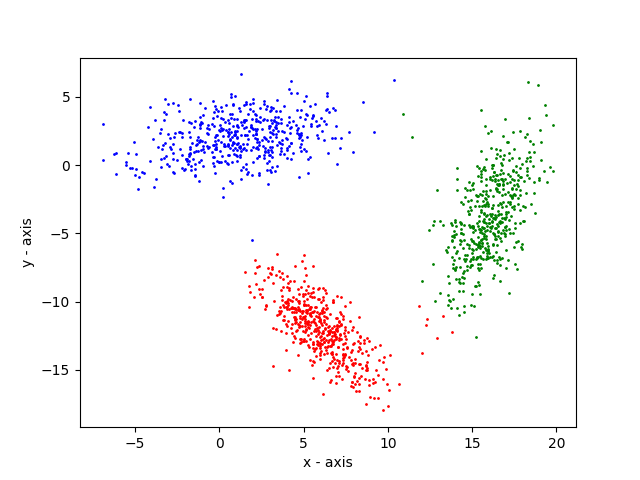
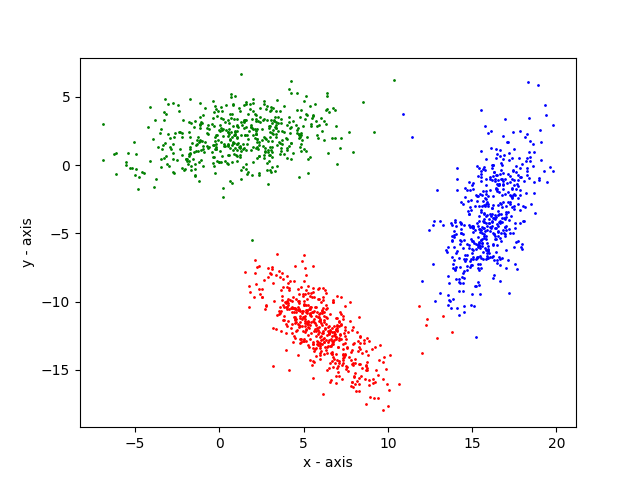
k is taken as input

Changed region(s): [[0.25, 0.1875, 0.5312, 0.375], [0.6875, 0.3125, 0.8438, 0.6562], [0.1875, 0.3438, 0.2188, 0.375]]

diff --git a/part a/LS/kmean.py b/part a/LS/kmean.py
@@ -1,8 +1,9 @@
 import math
 import random
+from random import randint
 import numpy as np
 from matplotlib import pyplot as plt
-K=3
+# K=3
 allowed_error=0.005
 
 def read_dataset(filename):
@@ -13,7 +14,7 @@ def read_dataset(filename):
         data_vectors.append([float(x) for x in line.split()])
     return data_vectors
 
-def myrandom(data_vector_set):
+def myrandom(data_vector_set,K):
     # min_element_wise=list(map(min, zip(*data_vector_set)))
     # max_element_wise=list(map(max, zip(*data_vector_set)))
     k_random_element=[]
@@ -22,12 +23,9 @@ def myrandom(data_vector_set):
     return k_random_element
 
 def compute_distance(data_vector,mean_vector):
-    # print(data_vector)
-    # print('*************************')
-    # print(mean_vector)
     return math.sqrt(pow((data_vector[0]-mean_vector[0]),2)+(pow((data_vector[1]-mean_vector[1]),2)))
 
-def assign_cluster(data_vector,mean_vector_set):
+def assign_cluster(data_vector,mean_vector_set,K):
     min_distance=1000
     min_index=-1
     for i in range(K):
@@ -41,6 +39,8 @@ def compute_mean_vector(kcluster):
     return [np.array(kcluster)[:,0].mean(),np.array(kcluster)[:,1].mean()]
 
 def main():
+     print("Enter the number of cluster to see magic : ")
+     K=int(input())
      # mean_vector=[]
      data_vector_set=[]
 
@@ -49,11 +49,11 @@ def main():
          data_vector_set[i-1:i]=(read_dataset(filename))
 
      # print(data_vector_set)
-     print("its size = ",len(data_vector_set))
+     # print("its size = ",len(data_vector_set))
      # first_time=True
      c=[[] for v in range(3)]
      kcluster=[[] for v in range(K)]
-     mean_vector_set=myrandom(data_vector_set)
+     mean_vector_set=myrandom(data_vector_set,K)
      new_distortion_value=100
      old_distortion_value=0
      while abs(new_distortion_value-old_distortion_value)>allowed_error:
@@ -64,29 +64,27 @@ def main():
          #####assigning the data_vector_set to K kcluster
          kcluster=[[] for v in range(K)]
          for data_vector in data_vector_set:
-             min_index,min_distance=assign_cluster(data_vector,mean_vector_set)
+             min_index,min_distance=assign_cluster(data_vector,mean_vector_set,K)
              new_distortion_value+=min_distance
              kcluster[min_index].append(data_vector)
          ########################MAXIMIZATION########################
          for i in range(K):
              mean_vector_set[i]=compute_mean_vector(kcluster[i])
 
-         print('old j = ',old_distortion_value,' and new j = ',new_distortion_value)
-     print kcluster[0]
-     print(len(kcluster[0]))
+         print('Error = ',abs(new_distortion_value-old_distortion_value))
+     # print kcluster[0]
+     # print(len(kcluster[0]))
+     colors = ['red','green','blue','yellow','violet','black','pink']
+
+     # for i in range(10):
+     #     colors.append('#%06X' % randint(0, 0xFFFFFF))
      #naming the x axis
      plt.xlabel('x - axis')
      # naming the y axis
      plt.ylabel('y - axis')
      for k in range(K):
          for data_vector in kcluster[k]:
-             if k==0:
-                 # print '=='
-                 plt.plot(data_vector[0], data_vector[1],marker='o', markersize=1, color="red")
-             elif k==1:
-                 plt.plot(data_vector[0], data_vector[1],marker='o', markersize=1, color="green")
-             elif k==2:
-                 plt.plot(data_vector[0], data_vector[1],marker='o', markersize=1, color="blue")
+             plt.plot(data_vector[0], data_vector[1],marker='o', markersize=1, color=colors[k])
      # plt.show()
      # plt.legend()
      plt.savefig('cluster.png')

diff --git a/part a/NLS/kmean.py b/part a/NLS/kmean.py
@@ -2,7 +2,7 @@ import math
 import random
 import numpy as np
 from matplotlib import pyplot as plt
-K=3
+# K=3
 allowed_error=0.0001
 
 def read_dataset(filename):
@@ -13,7 +13,7 @@ def read_dataset(filename):
         data_vectors.append([float(x) for x in line.split()])
     return data_vectors
 
-def myrandom(data_vector_set):
+def myrandom(data_vector_set,K):
     # min_element_wise=list(map(min, zip(*data_vector_set)))
     # max_element_wise=list(map(max, zip(*data_vector_set)))
     k_random_element=[]
@@ -27,7 +27,7 @@ def compute_distance(data_vector,mean_vector):
     # print(mean_vector)
     return math.sqrt(pow((data_vector[0]-mean_vector[0]),2)+(pow((data_vector[1]-mean_vector[1]),2)))
 
-def assign_cluster(data_vector,mean_vector_set):
+def assign_cluster(data_vector,mean_vector_set,K):
     min_distance=1000
     min_index=-1
     for i in range(K):
@@ -41,6 +41,8 @@ def compute_mean_vector(kcluster):
     return [np.array(kcluster)[:,0].mean(),np.array(kcluster)[:,1].mean()]
 
 def main():
+     print("Enter the number of cluster to see magic : ")
+     K=int(input())
      # mean_vector=[]
      data_vector_set=[]
 
@@ -49,11 +51,11 @@ def main():
          data_vector_set[i-1:i]=(read_dataset(filename))
 
      # print(data_vector_set)
-     print("its size = ",len(data_vector_set))
+     # print("its size = ",len(data_vector_set))
      # first_time=True
-     c=[[] for v in range(3)]
+     # c=[[] for v in range(3)]
      kcluster=[[] for v in range(K)]
-     mean_vector_set=myrandom(data_vector_set)
+     mean_vector_set=myrandom(data_vector_set,K)
      new_distortion_value=100
      old_distortion_value=0
      while abs(new_distortion_value-old_distortion_value)>allowed_error:
@@ -64,29 +66,24 @@ def main():
          #####assigning the data_vector_set to K kcluster
          kcluster=[[] for v in range(K)]
          for data_vector in data_vector_set:
-             min_index,min_distance=assign_cluster(data_vector,mean_vector_set)
+             min_index,min_distance=assign_cluster(data_vector,mean_vector_set,K)
              new_distortion_value+=min_distance
              kcluster[min_index].append(data_vector)
          ########################MAXIMIZATION########################
          for i in range(K):
              mean_vector_set[i]=compute_mean_vector(kcluster[i])
 
-         print('old j = ',old_distortion_value,' and new j = ',new_distortion_value)
-     print kcluster[0]
-     print(len(kcluster[0]))
+         print('Error = ',abs(new_distortion_value-old_distortion_value))
+     print mean_vector_set
+     # print(len(kcluster[0]))
      #naming the x axis
+     colors = ['red','green','blue','yellow','violet','black','pink']
      plt.xlabel('x - axis')
      # naming the y axis
      plt.ylabel('y - axis')
      for k in range(K):
          for data_vector in kcluster[k]:
-             if k==0:
-                 # print '=='
-                 plt.plot(data_vector[0], data_vector[1],marker='o', markersize=1, color="red")
-             elif k==1:
-                 plt.plot(data_vector[0], data_vector[1],marker='o', markersize=1, color="green")
-             elif k==2:
-                 plt.plot(data_vector[0], data_vector[1],marker='o', markersize=1, color="blue")
+             plt.plot(data_vector[0], data_vector[1],marker='o', markersize=1, color=colors[k])
      # plt.show()
      # plt.legend()
      plt.savefig('cluster.png')

diff --git a/part b/part 1/main.py b/part b/part 1/main.py
@@ -8,7 +8,7 @@ import math
 error_allowed=10
 # image_dim=400
 image_dim=300
-K=7
+# K=7
 
 def calculate_euclidean_distance(first_coordinate,second_coordinate):
     return math.sqrt(pow((int(first_coordinate[0])-int(second_coordinate[0])),2)+(pow((int(first_coordinate[1])-int(second_coordinate[1])),2)))
@@ -19,7 +19,7 @@ def calculate_manhattan_distance(first_pixel,second_pixel):
         distance=distance+abs(int(first_pixel[i])-int(second_pixel[i]))
     return distance
 
-def assign_cluster(image_pixel,k_mean,flag):
+def assign_cluster(image_pixel,k_mean,flag,K):
     min_index=-1;min_distance=100000
     for i in range(K):
         if flag==0:
@@ -31,7 +31,7 @@ def assign_cluster(image_pixel,k_mean,flag):
             min_index=i
     return min_distance,min_index
 
-def assign_k_random_mean(image):
+def assign_k_random_mean(image,K):
     k_mean=[]
     for i in range(K):
         x=random.randrange(0, image_dim, 5)
@@ -39,12 +39,12 @@ def assign_k_random_mean(image):
         k_mean.append(image[x][y])
     return k_mean
 
-def method1():
+def method1(K):
     print("\n\n##################### Method1 Start #######################\n\n")
     fname = "input.jpg"
     image=cv.imread(fname)
     image = cv.resize(image, (image_dim, image_dim))
-    k_mean=assign_k_random_mean(image)
+    k_mean=assign_k_random_mean(image,K)
     # print("below is initial random k means : \n",k_mean,"\n################\n")
     new_distortion_value=0
     old_distortion_value=100000
@@ -56,7 +56,7 @@ def method1():
         ########## assgning cluster ##############
         for i in range(image_dim):
             for j in range(image_dim):
-                min_distance,predicated_cluster=assign_cluster(image[i][j],k_mean,0)
+                min_distance,predicated_cluster=assign_cluster(image[i][j],k_mean,0,K)
                 assigned_cluster[i][j]=predicated_cluster
                 new_distortion_value=new_distortion_value+min_distance
 
@@ -95,12 +95,12 @@ def method1():
     cv.imwrite('euclidean_output.jpg', img)
     print("\n\n##################### Method1 End #######################\n\n")
 
-def method2():
+def method2(K):
     print("##################### Method2 Start #######################\n\n")
     fname = "input.jpg"
     image=cv.imread(fname)
     image = cv.resize(image, (image_dim, image_dim))
-    k_mean=assign_k_random_mean(image)
+    k_mean=assign_k_random_mean(image,K)
     # print("below is initial random k means : \n",k_mean,"\n################\n")
     new_distortion_value=0
     old_distortion_value=100000
@@ -112,7 +112,7 @@ def method2():
         ########## assgning cluster ##############
         for i in range(image_dim):
             for j in range(image_dim):
-                min_distance,predicated_cluster=assign_cluster(image[i][j],k_mean,1)
+                min_distance,predicated_cluster=assign_cluster(image[i][j],k_mean,1,K)
                 assigned_cluster[i][j]=predicated_cluster
                 new_distortion_value=new_distortion_value+min_distance
 
@@ -152,8 +152,11 @@ def method2():
     print("\n\n##################### Method2 End #######################\n\n")
 
 def main():
-    method1()
-    method2()
+    print("Enter the number of cluster to see magic : ")
+    # K=9
+    K=int(input())
+    method1(K)
+    method2(K)
 
 
 

diff --git a/part b/part 2/main.py b/part b/part 2/main.py
@@ -8,13 +8,9 @@ import math
 error_allowed=1000
 # image_dim=400
 image_dim=300
-K=10
+# K=10
 
 def calculate_euclidean_distance(first_coordinate,second_coordinate):
-    # print(data_vector)
-    # print('####### ############ ',first_coordinate,second_coordinate)
-    # print('*************************',math.sqrt(pow((first_coordinate[0]-second_coordinate[0]),2)+(pow((first_coordinate[1]-second_coordinate[1]),2))))
-    # print(mean_vector)
     return math.sqrt(pow((first_coordinate[0]-second_coordinate[0]),2)+(pow((first_coordinate[1]-second_coordinate[1]),2)))
 def calculate_manhattan_distance(first_pixel,second_pixel):
     # print('####### ############ ',first_pixel,second_pixel)
@@ -24,7 +20,7 @@ def calculate_manhattan_distance(first_pixel,second_pixel):
     # print("hi am ended,distance",distance)
     return distance
 
-def assign_cluster(x,y,image_pixel,k_mean):
+def assign_cluster(x,y,image_pixel,k_mean,K):
     min_index=-1;min_distance=100000
     for i in range(K):
         distance=calculate_manhattan_distance(k_mean[i][1],image_pixel)+calculate_euclidean_distance(k_mean[i][0],[x,y])
@@ -33,9 +29,7 @@ def assign_cluster(x,y,image_pixel,k_mean):
             min_index=i
     return min_distance,min_index
 
-
-
-def assign_k_random_mean(image):
+def assign_k_random_mean(image,K):
     k_mean=[]
     for i in range(K):
         x=random.randrange(0, image_dim, 5)
@@ -44,12 +38,14 @@ def assign_k_random_mean(image):
     return k_mean
 
 def main():
+    print("Enter the number of cluster to see magic : ")
+    K=int(input())
     fname = "input.jpg"
     image=cv.imread(fname)
     # print(np.shape(np.array(image)))
     image = cv.resize(image, (image_dim, image_dim))
     # print(np.shape(np.array(image)))
-    k_mean=assign_k_random_mean(image)
+    k_mean=assign_k_random_mean(image,K)
     # print("below is initial random k means : \n",k_mean,"\n################\n")
     new_distortion_value=0
     old_distortion_value=10000
@@ -61,7 +57,7 @@ def main():
         ########## assgning cluster ##############
         for i in range(image_dim):
             for j in range(image_dim):
-                min_distance,predicated_cluster=assign_cluster(i,j,image[i][j],k_mean)
+                min_distance,predicated_cluster=assign_cluster(i,j,image[i][j],k_mean,K)
                 assigned_cluster[i][j]=predicated_cluster
                 new_distortion_value=new_distortion_value+min_distance
 
